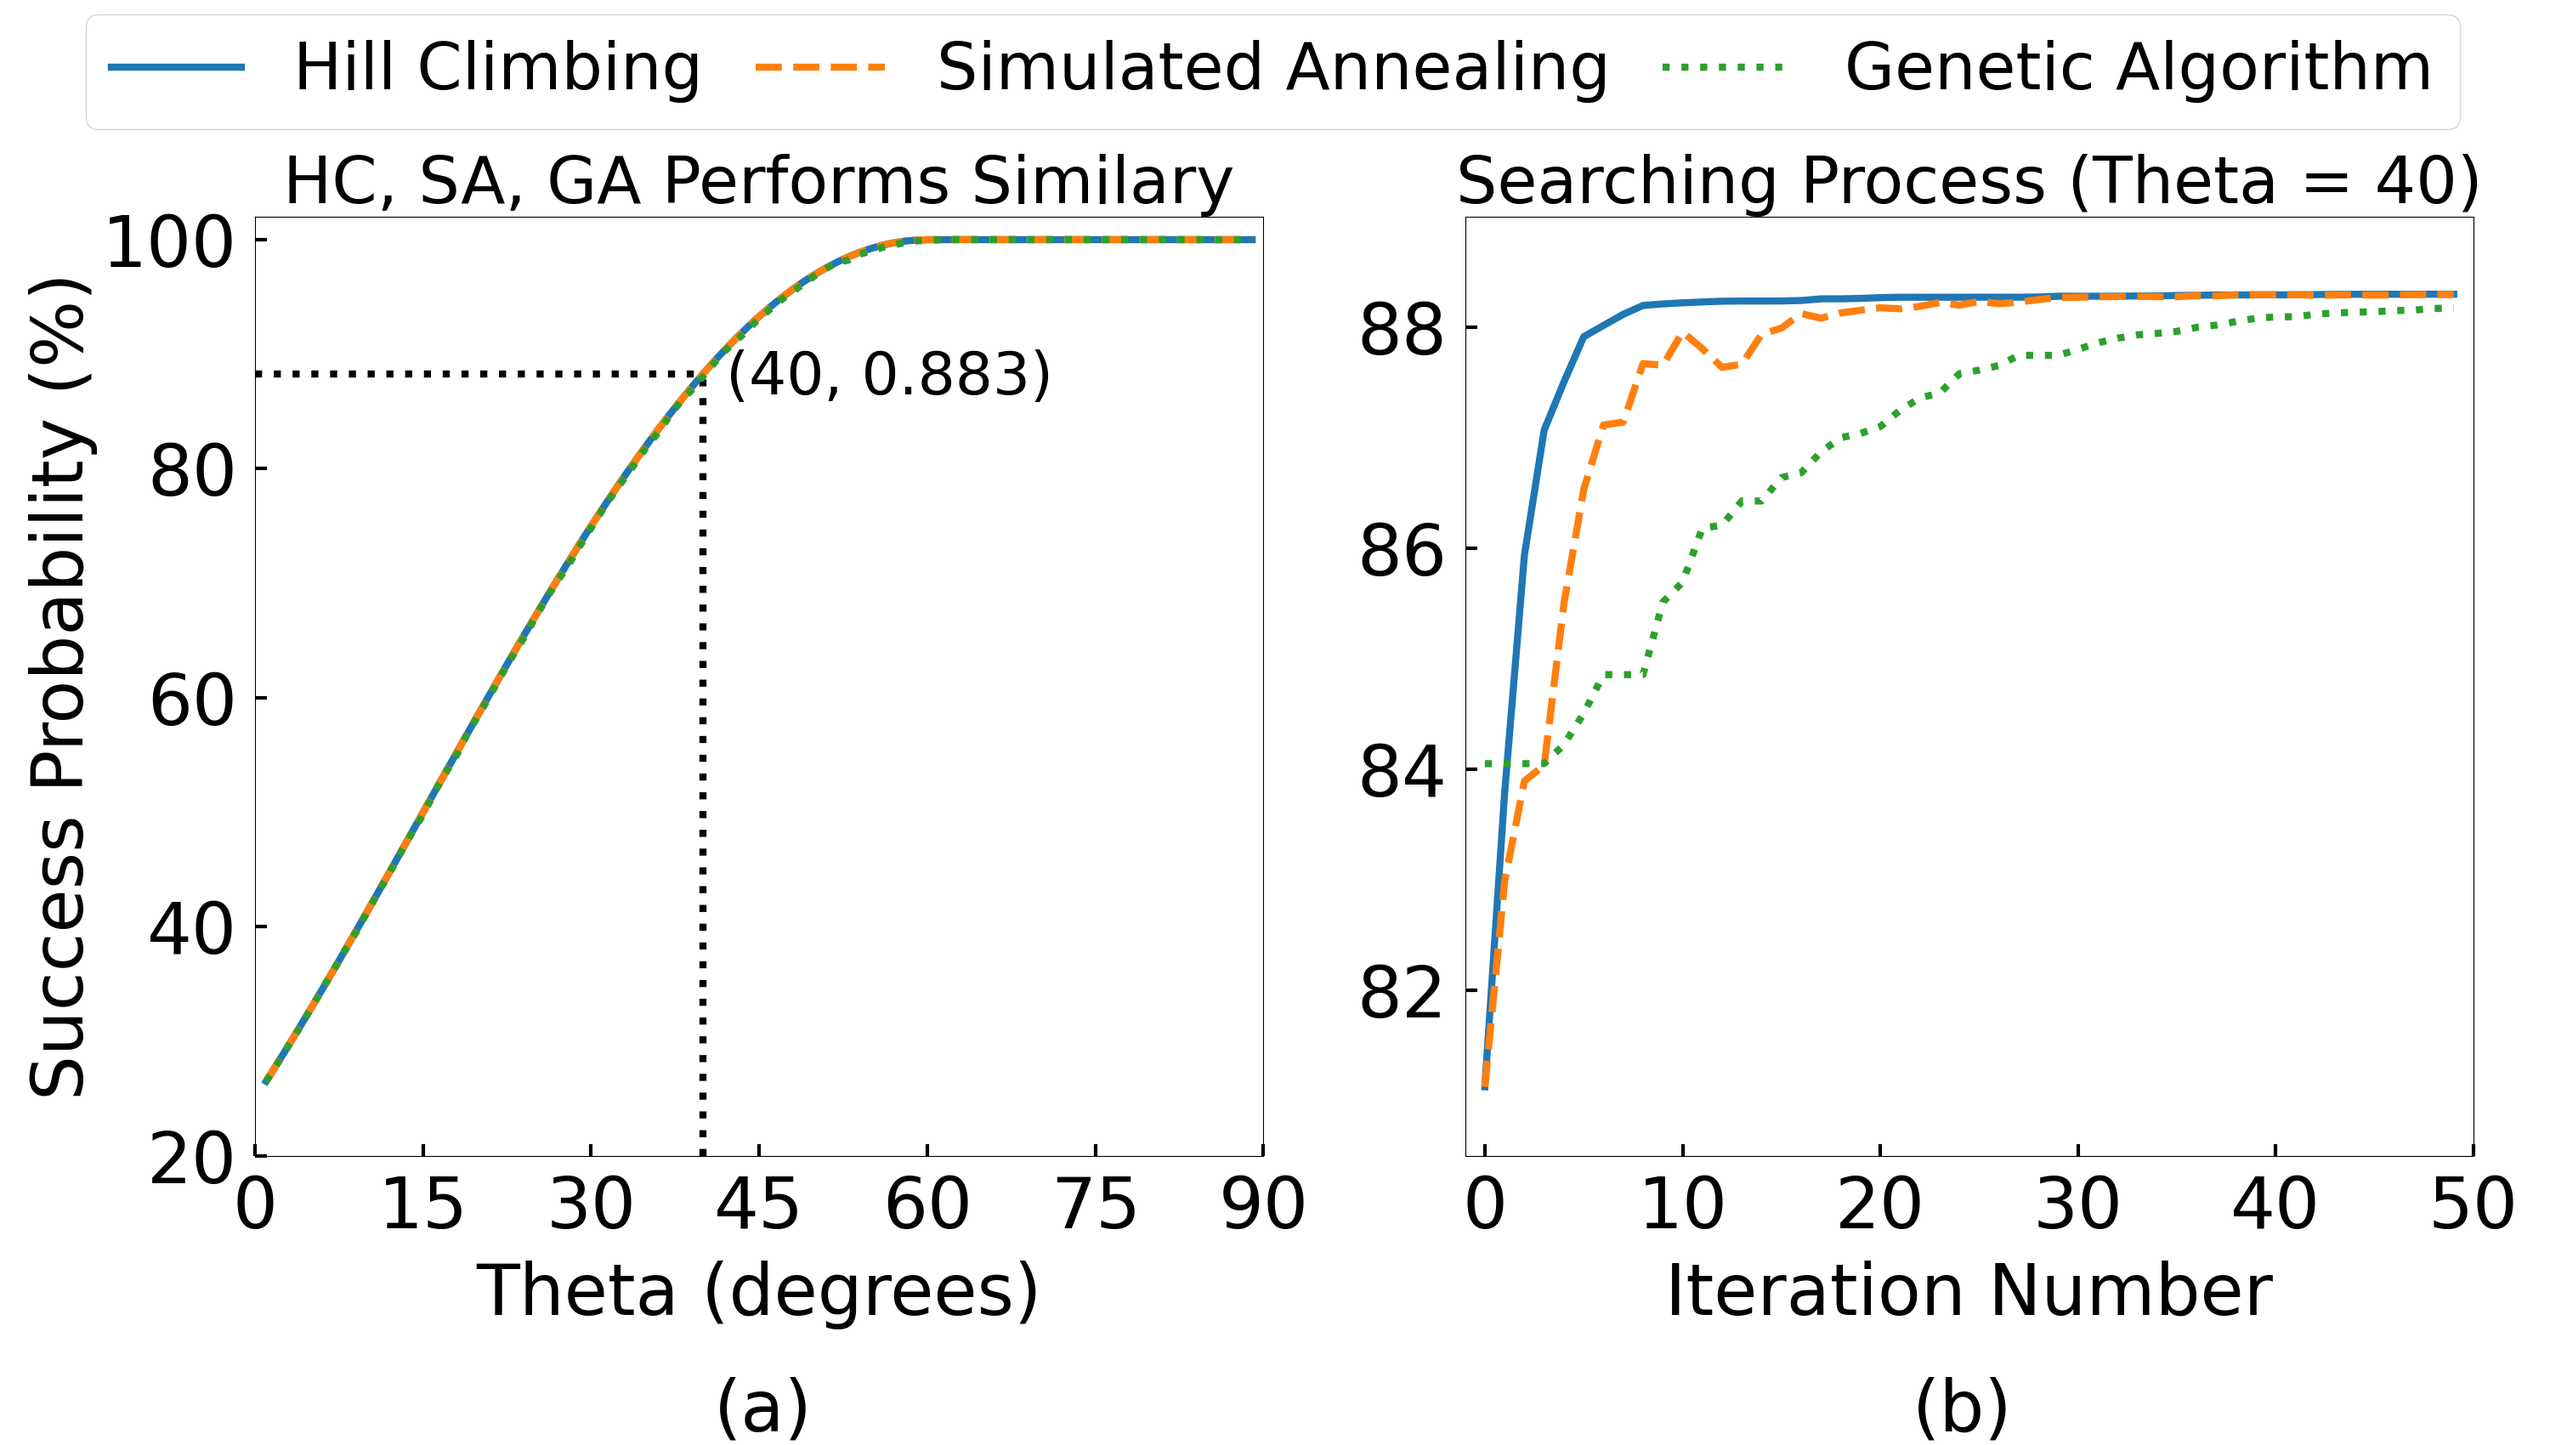
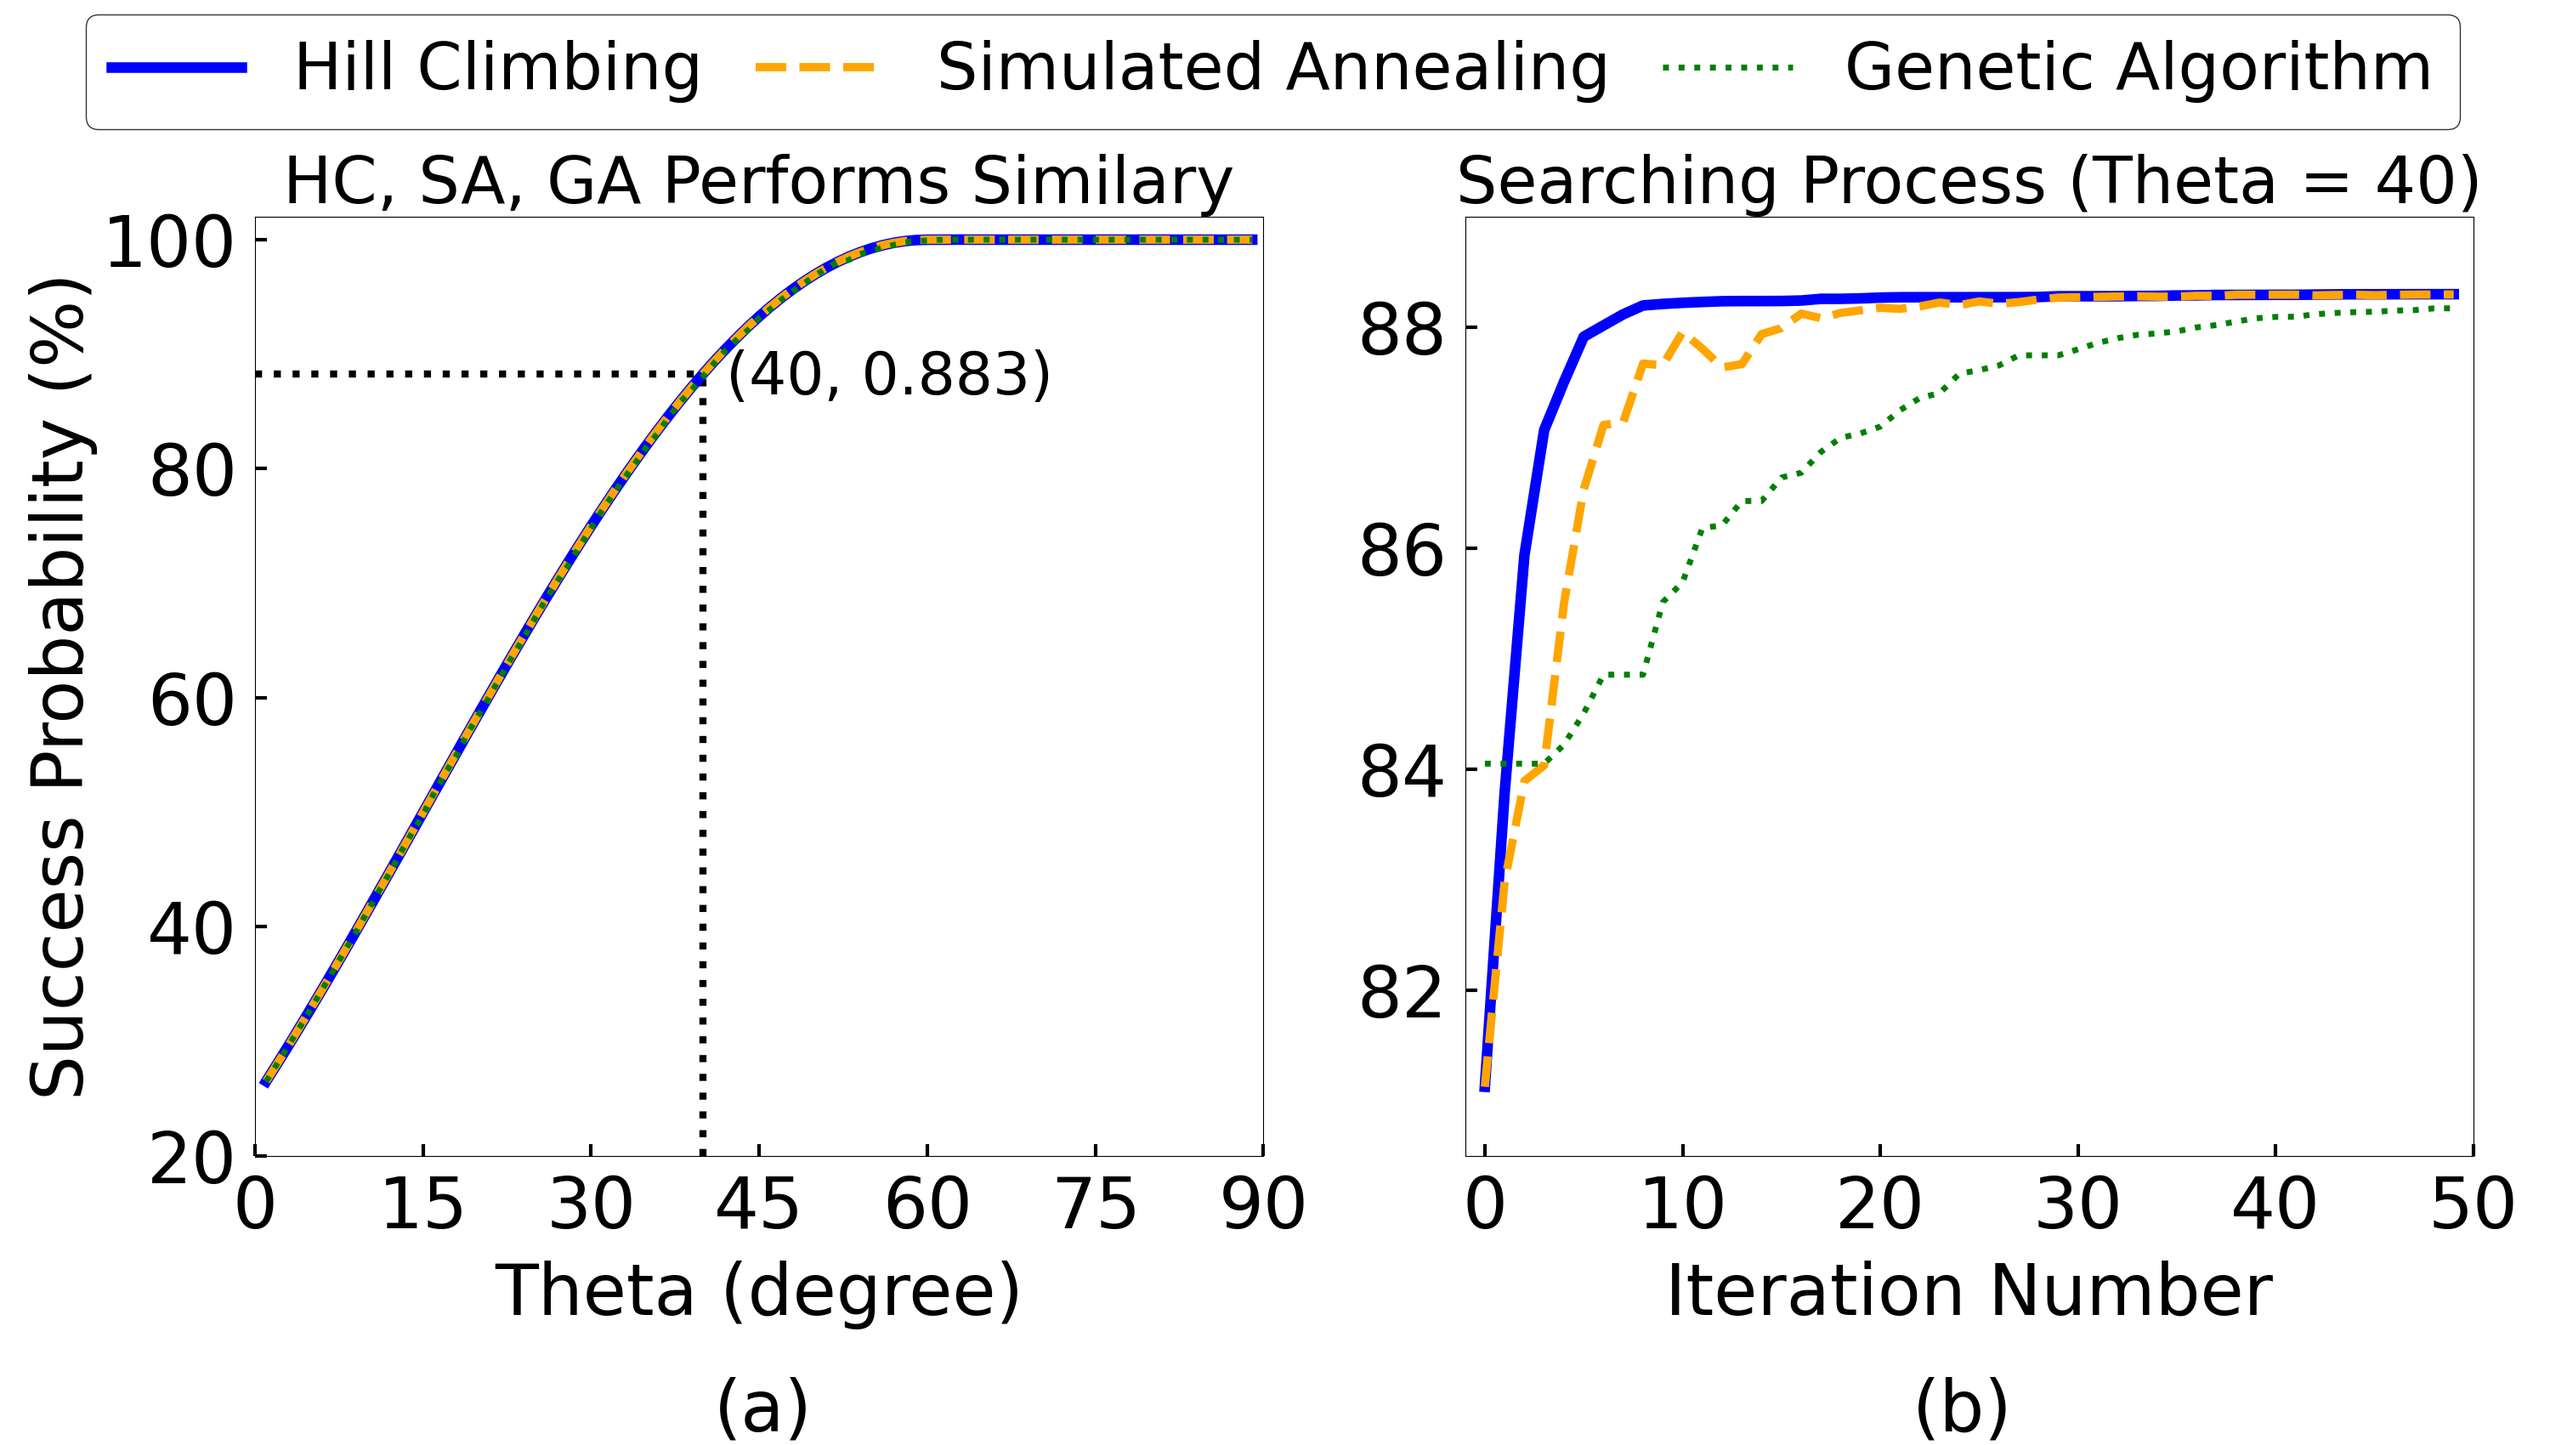
new plot on the conjecture, update old plots

diff --git a/plot2.py b/plot2.py
@@ -11,13 +11,18 @@ class Plot:
     plt.rcParams['font.size'] = 60
     plt.rcParams['lines.linewidth'] = 6
 
-    _METHOD = ['Hill climbing', 'Simulated annealing', 'Genetic algorithm']
-    _LABEL   = ['Hill Climbing', 'Simulated Annealing', 'Genetic Algorithm']
+    _METHOD = ['Hill climbing', 'Simulated annealing', 'Genetic algorithm', 'Theorem']
+    _LABEL  = ['Hill Climbing', 'Simulated Annealing', 'Genetic Algorithm', 'Conjecture + Corollary']
     METHOD  = dict(zip(_METHOD, _LABEL))
 
-    _METHOD = ['Hill climbing', 'Simulated annealing', 'Genetic algorithm']
-    _STYLE  = ['solid',         'dashed',              'dotted']
+    _METHOD = ['Hill climbing', 'Simulated annealing', 'Genetic algorithm', 'Theorem']
+    _STYLE  = ['solid',         'dashed',              'dotted',            'dashdot']
     LINE_STYLE = dict(zip(_METHOD, _STYLE))
+
+    _METHOD = ['Hill climbing', 'Simulated annealing', 'Genetic algorithm', 'Theorem']
+    _COLOR  = ['blue',   'orange',              'green',             'red']
+    COLOR   = dict(zip(_METHOD, _COLOR))
+
 
     @staticmethod
     def vary_theta(data, filename):
@@ -51,7 +56,7 @@ class Plot:
         ax.vlines(x=45,   ymin=0.2, ymax=1, linestyles='dotted', colors='black')
         ax.vlines(x=60,   ymin=0.2, ymax=1, linestyles='dotted', colors='black')
         ax.vlines(x=65.9, ymin=0.2, ymax=1, linestyles='dotted', colors='black')
-        ax.legend(fontsize='55', loc='center', bbox_to_anchor=(0.6, 0.25))
+        ax.legend(fontsize='55', loc='center', bbox_to_anchor=(0.6, 0.25), edgecolor='black')
         xticks = [i for i in range(0, 181, 15)]
         ax.set_xticks(xticks)
         ax.set_xticklabels([f'{x}' for x in xticks])
@@ -74,7 +79,7 @@ class Plot:
         table1 = defaultdict(list)
         for myinput, output_by_methods in data1:
             for method, output in output_by_methods.items():
-                table1[method].append({myinput.unitary_theta : output.success})
+                table1[method].append({myinput.unitary_theta: output.success})
         Y = defaultdict(list)
         X = [i for i in range(1, 90)]
         for method, mylist in table1.items():
@@ -102,10 +107,10 @@ class Plot:
         fig, (ax0, ax1) = plt.subplots(1, 2, figsize=(30, 17))
         fig.subplots_adjust(left=0.1, right=0.97, top=0.85, bottom=0.2)
         # ax0
-        ax0.plot(X, Y[methods[0]], label=Plot.METHOD[methods[0]], linestyle=Plot.LINE_STYLE[methods[0]])
-        ax0.plot(X, Y[methods[1]], label=Plot.METHOD[methods[1]], linestyle=Plot.LINE_STYLE[methods[1]])
-        ax0.plot(X, Y[methods[2]], label=Plot.METHOD[methods[2]], linestyle=Plot.LINE_STYLE[methods[2]])
-        ax0.legend(ncol=3, loc='upper left', bbox_to_anchor=(-0.2, 1.2, 0.05, 0.05), fontsize=55, columnspacing=0.8)
+        ax0.plot(X, Y[methods[0]], label=Plot.METHOD[methods[0]], linestyle=Plot.LINE_STYLE[methods[0]], color=Plot.COLOR[methods[0]], linewidth=9)
+        ax0.plot(X, Y[methods[1]], label=Plot.METHOD[methods[1]], linestyle=Plot.LINE_STYLE[methods[1]], color=Plot.COLOR[methods[1]], linewidth=7)
+        ax0.plot(X, Y[methods[2]], label=Plot.METHOD[methods[2]], linestyle=Plot.LINE_STYLE[methods[2]], color=Plot.COLOR[methods[2]], linewidth=5)
+        ax0.legend(ncol=3, loc='upper left', bbox_to_anchor=(-0.2, 1.2, 0.05, 0.05), fontsize=55, columnspacing=0.8, edgecolor='black')
         xticks = [i for i in range(0, 91, 15)]
         ax0.set_xticks(xticks)
         ax0.set_xticklabels([f'{x}' for x in xticks])
@@ -118,15 +123,15 @@ class Plot:
         ax0.tick_params(axis='x', direction='in', length=10, width=3, pad=15)
         ax0.tick_params(axis='y', direction='in', length=10, width=3, pad=15)
         ax0.set_title('HC, SA, GA Performs Similary', fontsize=55)
-        ax0.set_xlabel('Theta (degrees)', labelpad=15)
+        ax0.set_xlabel('Theta (degree)', labelpad=15)
         ax0.set_xlim([0, 90])
         ax0.set_ylim([0.2, 1.02])
         ax0.set_ylabel('Success Probability (%)')
         ax0.text(42, 0.865, '(40, 0.883)', fontsize=50)
         # ax1
-        ax1.plot(Y2[methods[0]], linestyle=Plot.LINE_STYLE[methods[0]])
-        ax1.plot(Y2[methods[1]], linestyle=Plot.LINE_STYLE[methods[1]])
-        ax1.plot(Y2[methods[2]], linestyle=Plot.LINE_STYLE[methods[2]])
+        ax1.plot(Y2[methods[0]], linestyle=Plot.LINE_STYLE[methods[0]], color=Plot.COLOR[methods[0]], linewidth=9)
+        ax1.plot(Y2[methods[1]], linestyle=Plot.LINE_STYLE[methods[1]], color=Plot.COLOR[methods[1]], linewidth=7)
+        ax1.plot(Y2[methods[2]], linestyle=Plot.LINE_STYLE[methods[2]], color=Plot.COLOR[methods[2]], linewidth=5)
         xticks = [i for i in range(0, 51, 10)]
         ax1.set_xticks(xticks)
         ax1.set_xticklabels([f'{x}' for x in xticks])
@@ -207,6 +212,89 @@ class Plot:
         fig.savefig(filename)
 
 
+    @staticmethod
+    def conjecture_1(data, filename):
+        table_3sensor = defaultdict(list)
+        table_5sensor = defaultdict(list)
+        for myinput, output_by_methods in data:
+            if myinput.num_sensor == 3:
+                for method, output in output_by_methods.items():
+                    table_3sensor[method].append({myinput.unitary_theta: output.success})
+            if myinput.num_sensor == 5:
+                for method, output in output_by_methods.items():
+                    table_5sensor[method].append({myinput.unitary_theta: output.success})
+
+        X = [i for i in range(1, 90)]
+        Y3 = defaultdict(list)
+        for method, mylist in table_3sensor.items():
+            y = defaultdict(list)
+            for key_val in mylist: # each theta only one experiment
+                for theta, success in key_val.items():
+                    y[theta] = success
+            y2 = []
+            for theta in X:
+                if theta in y:
+                    y2.append(y[theta])
+                else:
+                    raise Exception(f'data missing: theta={theta}')
+            Y3[method] = y2
+        Y5 = defaultdict(list)
+        for method, mylist in table_5sensor.items():
+            y = defaultdict(list)
+            for key_val in mylist: # each theta only one experiment
+                for theta, success in key_val.items():
+                    y[theta] = success
+            y2 = []
+            for theta in X:
+                if theta in y:
+                    y2.append(y[theta])
+                else:
+                    raise Exception(f'data missing: theta={theta}')
+            Y5[method] = y2
+        
+        methods = ['Hill climbing', 'Theorem']
+        fig, (ax0, ax1) = plt.subplots(1, 2, figsize=(30, 17))
+        fig.subplots_adjust(left=0.1, right=0.97, top=0.85, bottom=0.2)
+        # ax0
+        ax0.plot(X, Y3[methods[0]], label=Plot.METHOD[methods[0]], linestyle=Plot.LINE_STYLE[methods[0]], color=Plot.COLOR[methods[0]], linewidth=9)
+        ax0.plot(X, Y3[methods[1]], label=Plot.METHOD[methods[1]], linestyle=Plot.LINE_STYLE[methods[1]], color=Plot.COLOR[methods[1]], linewidth=7)
+        xticks = [i for i in range(0, 91, 15)]
+        ax0.set_xticks(xticks)
+        ax0.set_xticklabels([f'{x}' for x in xticks])
+        yticks = [0.2, 0.4, 0.6, 0.8, 1]
+        ax0.set_yticks(yticks)
+        ax0.set_yticklabels([f'{int(y * 100)}' for y in yticks])
+        ax0.set_xlim([0, 90])
+        ax0.set_ylim([0.2, 1.02])
+        ax0.vlines(x=60, ymin=0.2, ymax=1, linestyles='dotted', colors='black', )
+        ax0.tick_params(axis='x', direction='in', length=10, width=3, pad=15)
+        ax0.tick_params(axis='y', direction='in', length=10, width=3, pad=15)
+        ax0.set_title('3 Sensors', fontsize=60)
+        ax0.legend(ncol=2, loc='upper left', bbox_to_anchor=(0.2, 1.2, 0.05, 0.05), fontsize=55, handlelength=3.5, edgecolor='black')
+        ax0.set_xlabel('Theta (degree)', labelpad=15)
+        ax0.set_ylabel('Success Probability (%)')
+        # ax1
+        ax1.plot(X, Y5[methods[0]], label=Plot.METHOD[methods[0]], linestyle=Plot.LINE_STYLE[methods[0]], color=Plot.COLOR[methods[0]], linewidth=9)
+        ax1.plot(X, Y5[methods[1]], label=Plot.METHOD[methods[1]], linestyle=Plot.LINE_STYLE[methods[1]], color=Plot.COLOR[methods[1]], linewidth=7)
+        xticks = [i for i in range(0, 91, 15)]
+        ax1.set_xticks(xticks)
+        ax1.set_xticklabels([f'{x}' for x in xticks])
+        yticks = [0.2, 0.4, 0.6, 0.8, 1]
+        ax1.set_yticks(yticks)
+        ax1.set_yticklabels([f'{int(y * 100)}' for y in yticks])
+        ax1.set_xlim([0, 90])
+        ax1.set_ylim([0.2, 1.02])
+        ax1.vlines(x=65.9, ymin=0.2, ymax=1, linestyles='dotted', colors='black', )
+        ax1.tick_params(axis='x', direction='in', length=10, width=3, pad=15)
+        ax1.tick_params(axis='y', direction='in', length=10, width=3, pad=15)
+        ax1.set_title('5 Sensors', fontsize=60)
+        ax1.set_xlabel('Theta (degree)', labelpad=15)
+        plt.figtext(0.28, 0.01, '(a)')
+        plt.figtext(0.75, 0.01, '(b)')
+        fig.savefig(filename)
+
+
+
 def vary_theta():
     logs = ['result2/12.22.2022/varying_theta_2sensors', 'result2/12.22.2022/varying_theta_3sensors', \
             'result2/12.22.2022/varying_theta_4sensors', 'result2/12.22.2022/varying_theta_5sensors']
@@ -236,11 +324,18 @@ def lemma2():
     filename = 'result2/12.28.2022/lemma2.png'
     Plot.lemma2(data, filename)
 
-        
+
+def conjecture():
+    logs = ['result2/12.31.2022/conjecture.3sensor', 'result2/12.31.2022/conjecture.5sensor',
+            'result2/12.22.2022/varying_theta_3sensors', 'result2/12.22.2022/varying_theta_5sensors']
+    data = Logger.read_log(logs)
+    filename = 'result2/12.31.2022/conjecture_1.png'
+    Plot.conjecture_1(data, filename)
 
 
 if __name__ == '__main__':
-    # vary_theta()
+    vary_theta()
     # methods_similar()
-    lemma2()
+    # lemma2()
+    # conjecture()
     

diff --git a/logger.py b/logger.py
@@ -24,7 +24,7 @@ class Logger:
     def read_log(logs):
         data = []
         for log in logs:
-            f = open(log,'r')
+            f = open(log, 'r')
             while True:
                 line = f.readline()
                 if line == '':
@@ -33,9 +33,9 @@ class Logger:
                 output_by_method = {}
                 line = f.readline()
                 while line != '' and line != '\n':
-                    if line.find('Theory') != -1:
+                    if line.find('Theorem') != -1:
                         output = TheoremOutput.from_json_str(line)
-                        output_by_method['Theory'] = output
+                        output_by_method['Theorem'] = output
                     if line.find('Hill climbing') != -1:
                         output = HillclimbOutput.from_json_str(line)
                         output_by_method['Hill climbing'] = output
